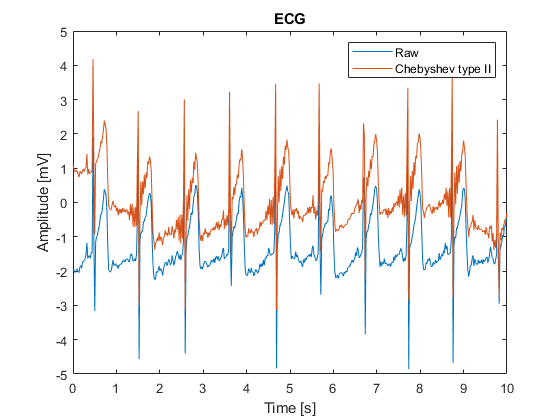
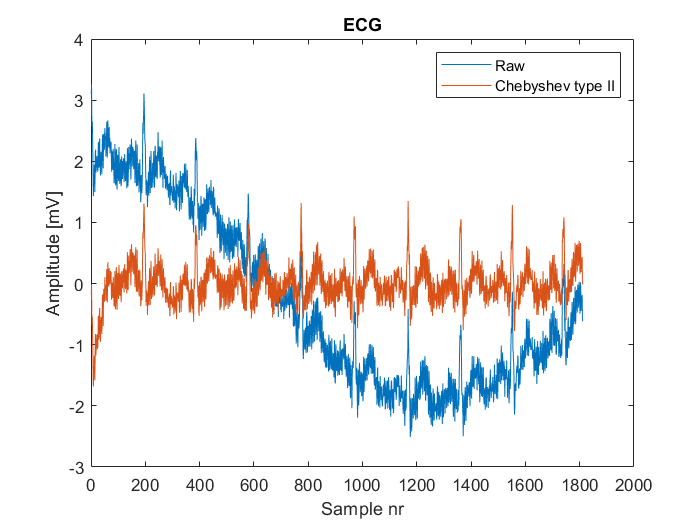
Polish plots

diff --git a/ecgplot.m b/ecgplot.m
@@ -25,7 +25,7 @@ disp(AmplitudeData)
 % Plotting data using the extracted variables
 %plot(TimeData, AmplitudeData);  % Plot as points connected by lines
 plot(AmplitudeData);  % Plot as points connected by lines
-xlabel('Time [s]');  % Label x-axis
+xlabel('Sample nr');  % Label x-axis
 ylabel('Amplitude [mV]');  % Label y-axis
 title('ECG');  % Add title to the plot
 grid on;  % Add grid for easier visualization

diff --git a/q4_1.m b/q4_1.m
@@ -25,7 +25,7 @@ NotchFilteredAmplitudeData = filtfilt (b ,a , AmplitudeData) ;
 plot(NotchFilteredAmplitudeData, '--', 'LineWidth', 1)
 hold off;
 legend('Raw', 'Notch 50 Hz');
-xlabel('Time [s]')
+xlabel('Sample nr')
 ylabel('Amplitude [mV]')
 title('ECG')
 

diff --git a/q4_2.m b/q4_2.m
@@ -40,7 +40,7 @@ ChebyFilteredAmplitudeData= filtfilt (sos,g,AmplitudeData) ;
 plot(ChebyFilteredAmplitudeData)
 hold off;
 legend('Raw', 'Chebyshev type II');
-xlabel('Time [s]')
+xlabel('Sample nr')
 ylabel('Amplitude [mV]')
 title('ECG')
 
